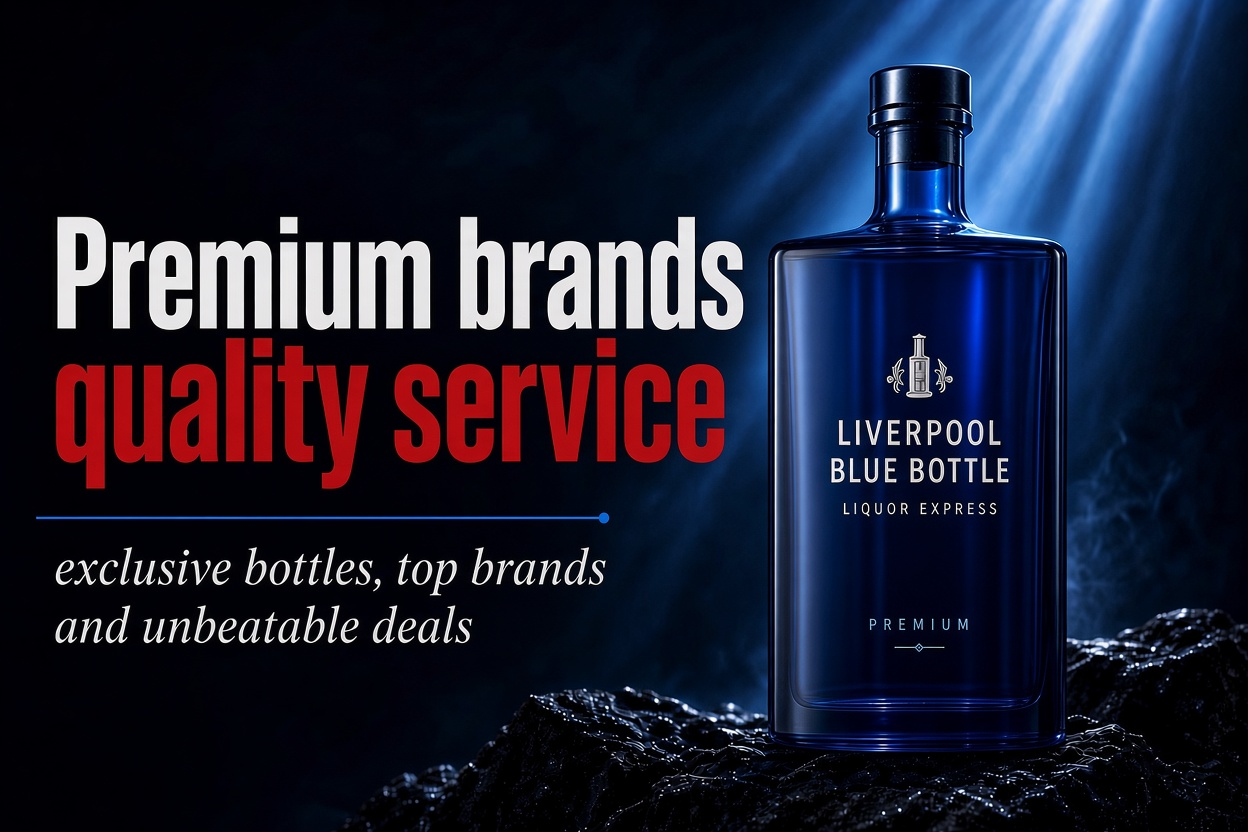
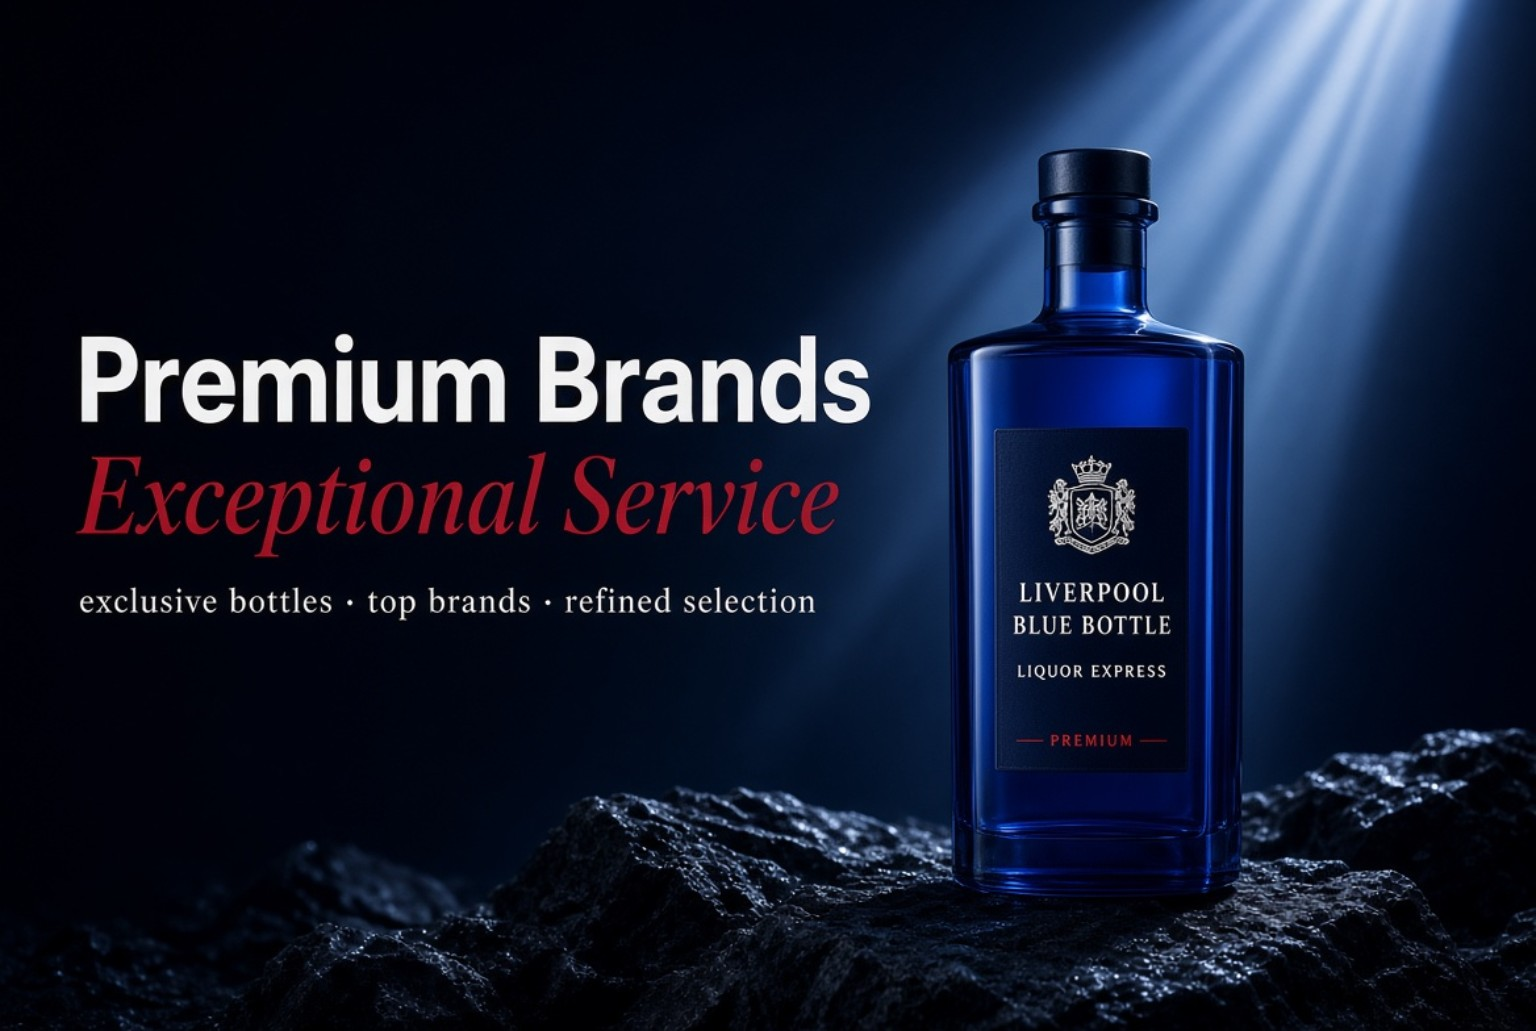
Add files via upload

diff --git a/index.html b/index.html
@@ -123,7 +123,7 @@
     <img
       class="hero-banner-image"
       src="liverpool-blue-bottle-banner.jpg"
-      alt="Liverpool Blue Bottle Liquor Express"
+      alt="Premium Brands — Exceptional Service — Liverpool Blue Bottle Liquor Express"
       width="1536"
       height="1031"
       fetchpriority="high"
@@ -139,11 +139,12 @@
     </p>
 
     <h1>
-      The bottle shop that doesn’t mess around
+      The Art of Fine Spirits
     </h1>
 
     <p class="hero-subtitle">
-      we got variety at great prices
+      Curated collections of premium brands<br>
+      and exclusive bottles, delivered with care.
     </p>
 
   </div>
